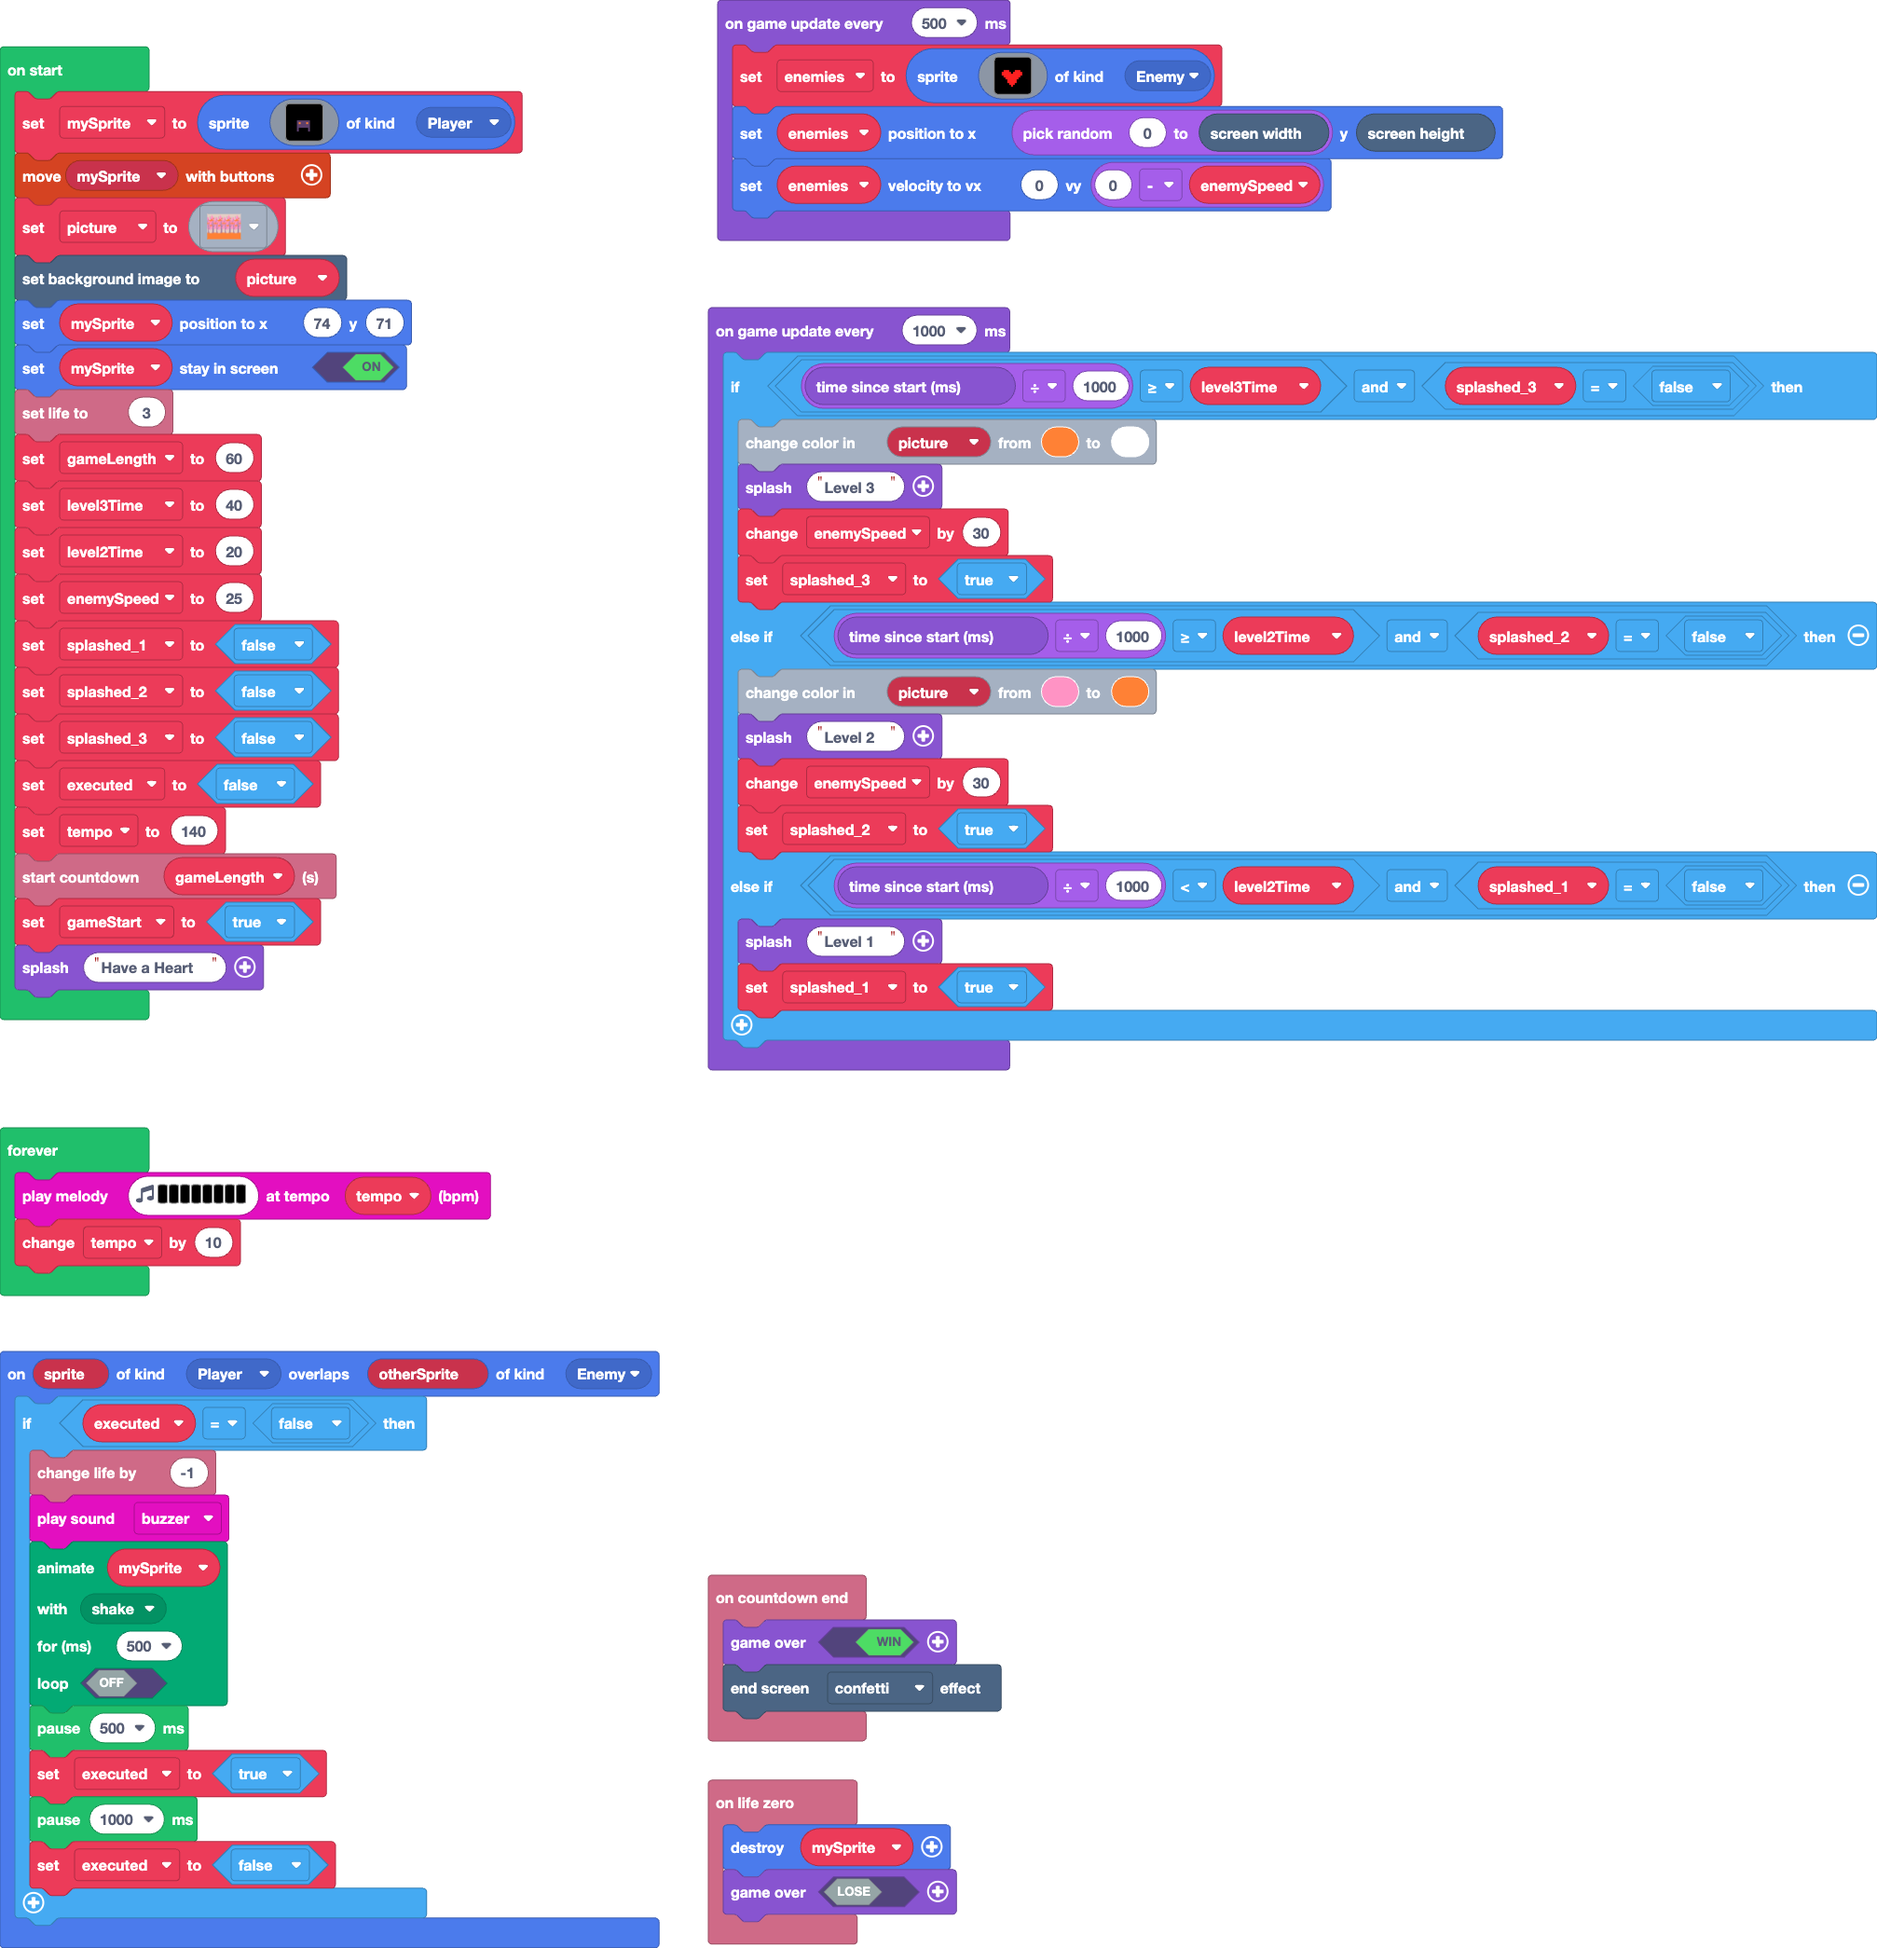
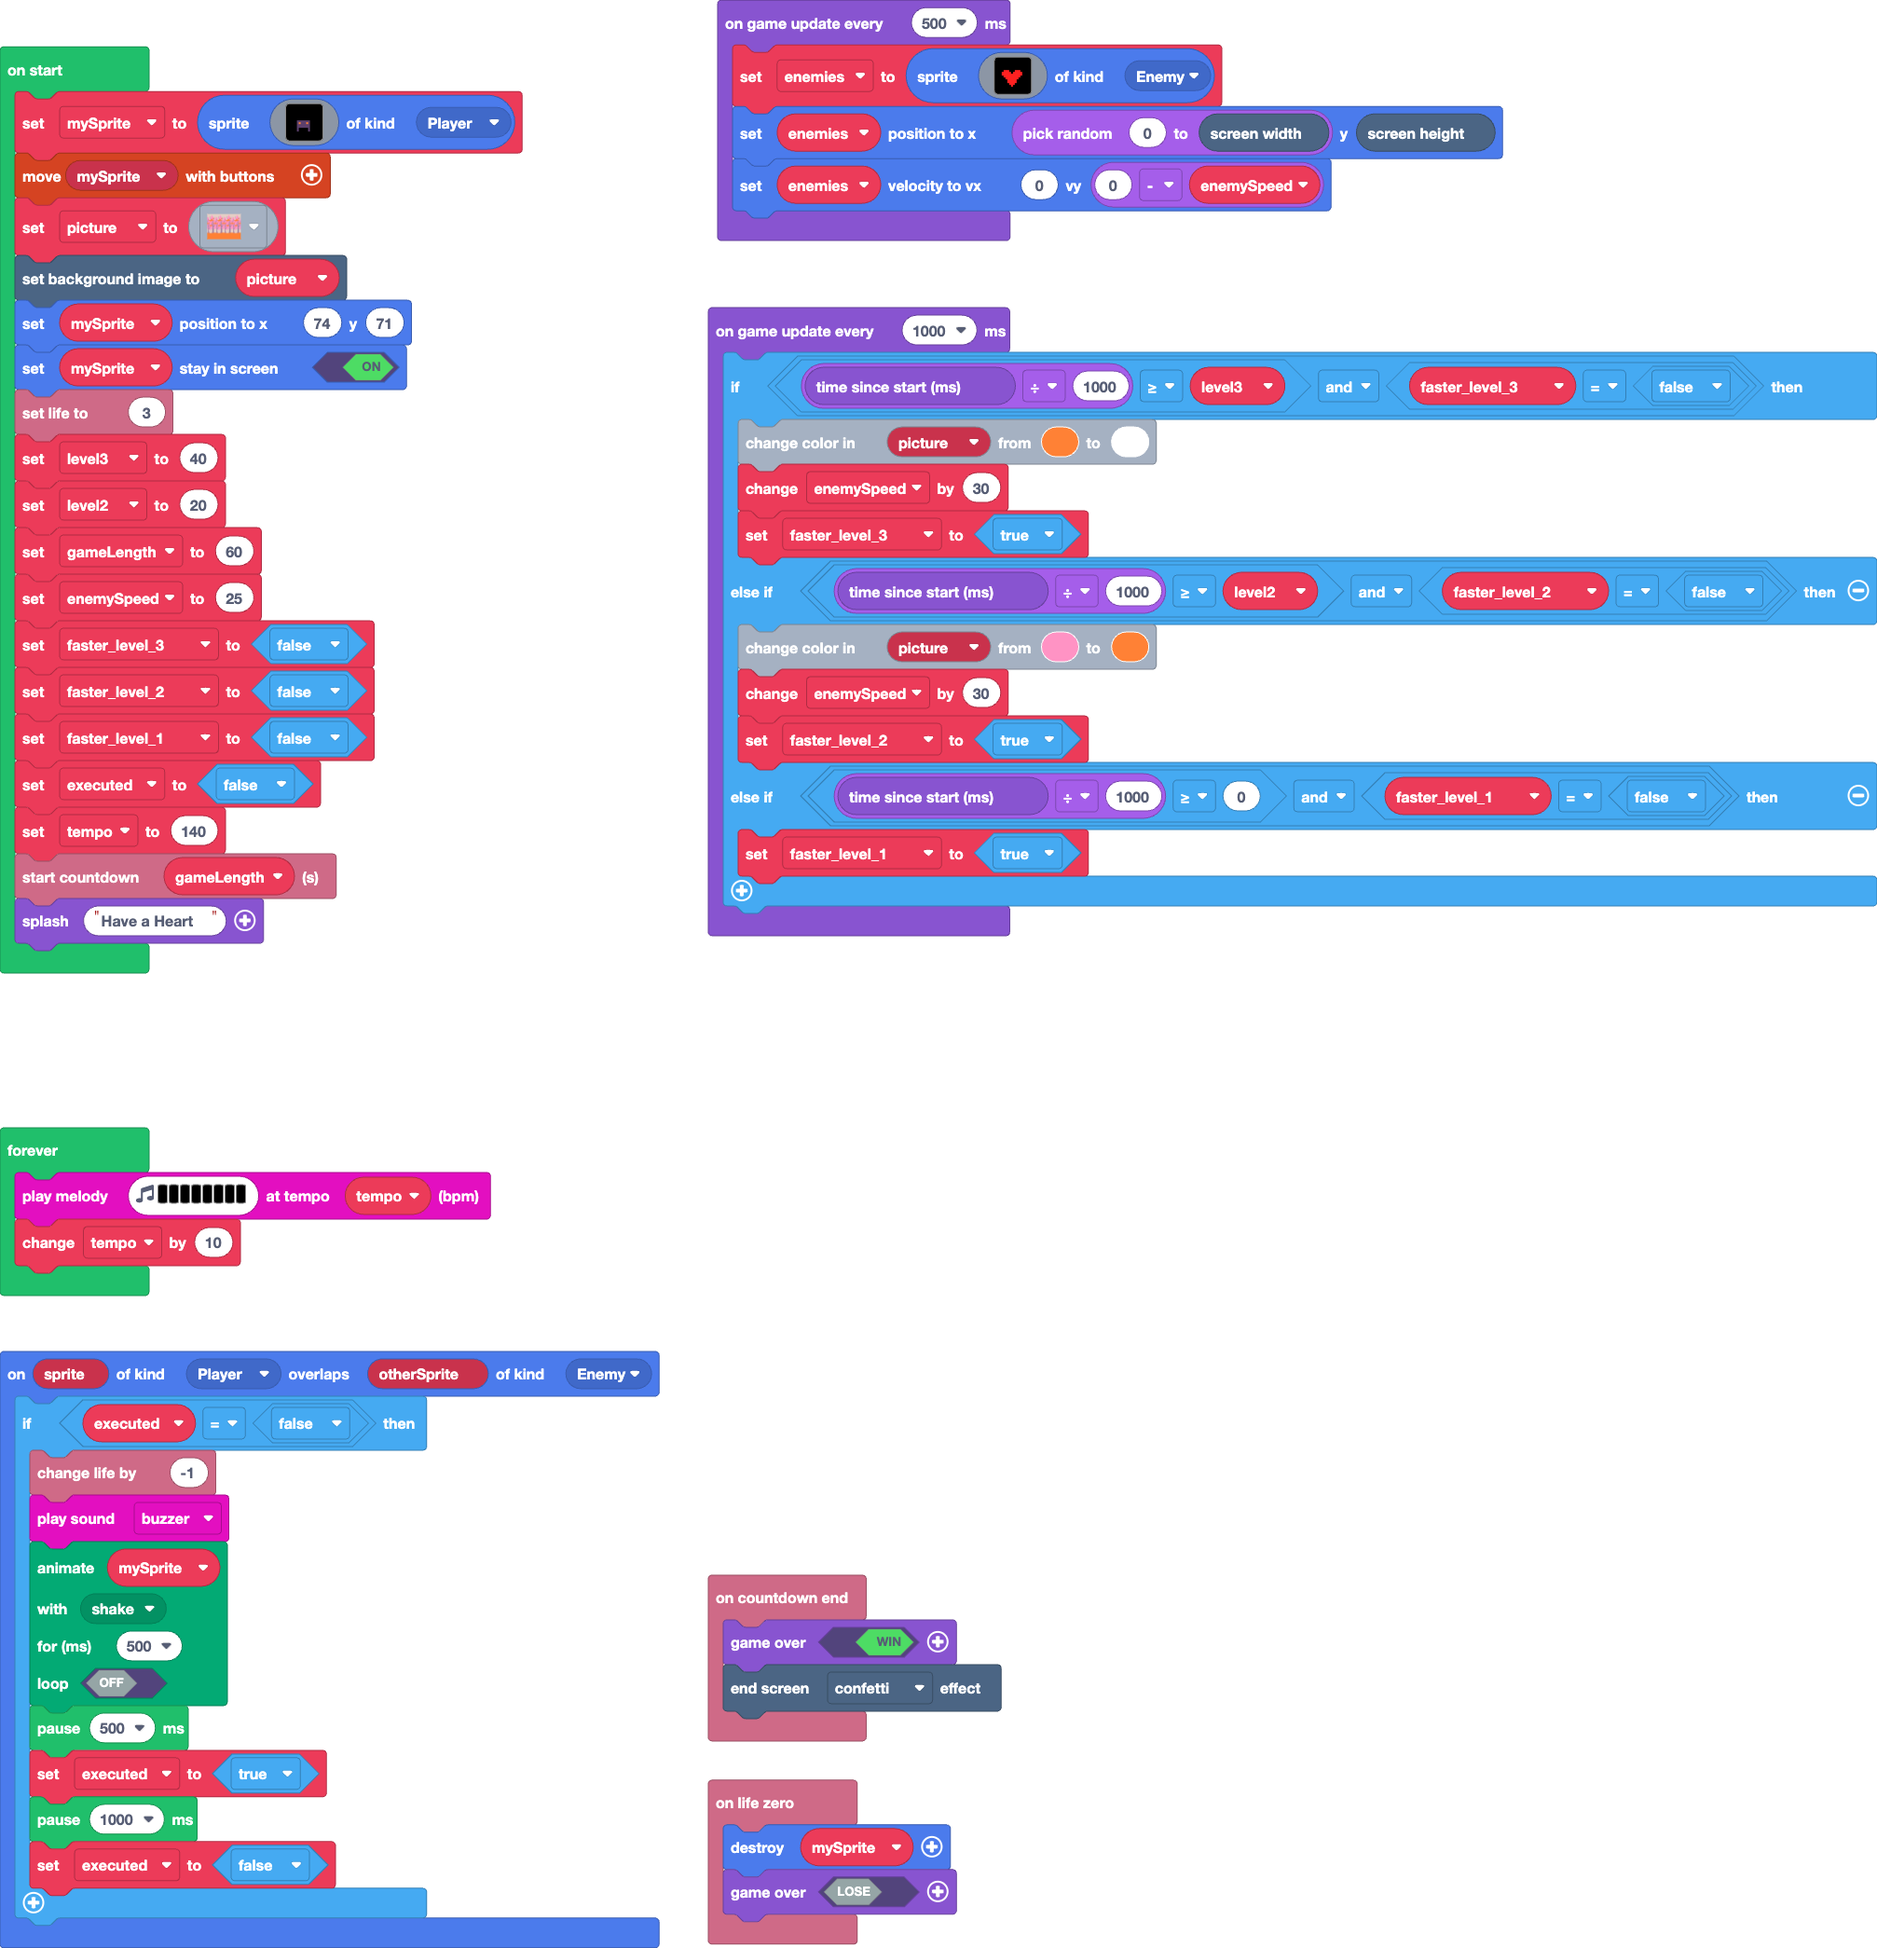
Update main.blocks, main.ts

diff --git a/main.ts b/main.ts
@@ -49,32 +49,28 @@ scene.setBackgroundImage(picture)
 mySprite.setPosition(74, 71)
 mySprite.setStayInScreen(true)
 info.setLife(3)
+let level3 = 40
+let level2 = 20
 let gameLength = 60
-let level3Time = 40
-let level2Time = 20
 let enemySpeed = 25
-let splashed_1 = false
-let splashed_2 = false
-let splashed_3 = false
+let faster_level_3 = false
+let faster_level_2 = false
+let faster_level_1 = false
 executed = false
 let tempo = 140
 info.startCountdown(gameLength)
-let gameStart = true
 game.splash("Have a Heart")
 game.onUpdateInterval(1000, function () {
-    if (game.runtime() / 1000 >= level3Time && splashed_3 == false) {
+    if (game.runtime() / 1000 >= level3 && faster_level_3 == false) {
         picture.replace(4, 1)
-        game.splash("Level 3")
         enemySpeed += 30
-        splashed_3 = true
-    } else if (game.runtime() / 1000 >= level2Time && splashed_2 == false) {
+        faster_level_3 = true
+    } else if (game.runtime() / 1000 >= level2 && faster_level_2 == false) {
         picture.replace(3, 4)
-        game.splash("Level 2")
         enemySpeed += 30
-        splashed_2 = true
-    } else if (game.runtime() / 1000 < level2Time && splashed_1 == false) {
-        game.splash("Level 1")
-        splashed_1 = true
+        faster_level_2 = true
+    } else if (game.runtime() / 1000 >= 0 && faster_level_1 == false) {
+        faster_level_1 = true
     }
 })
 forever(function () {
